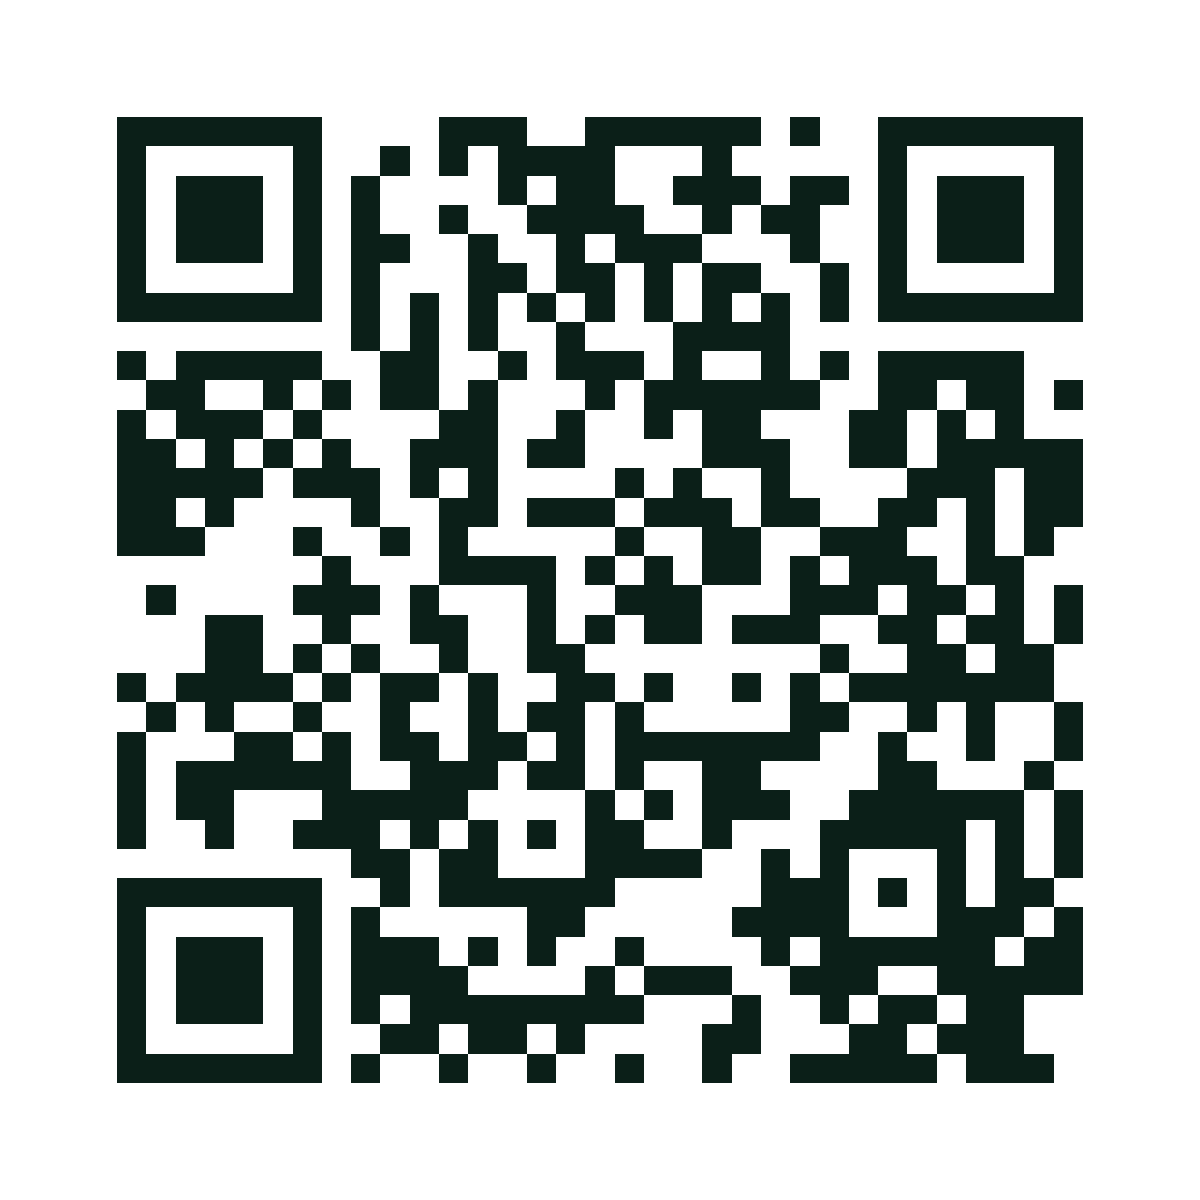
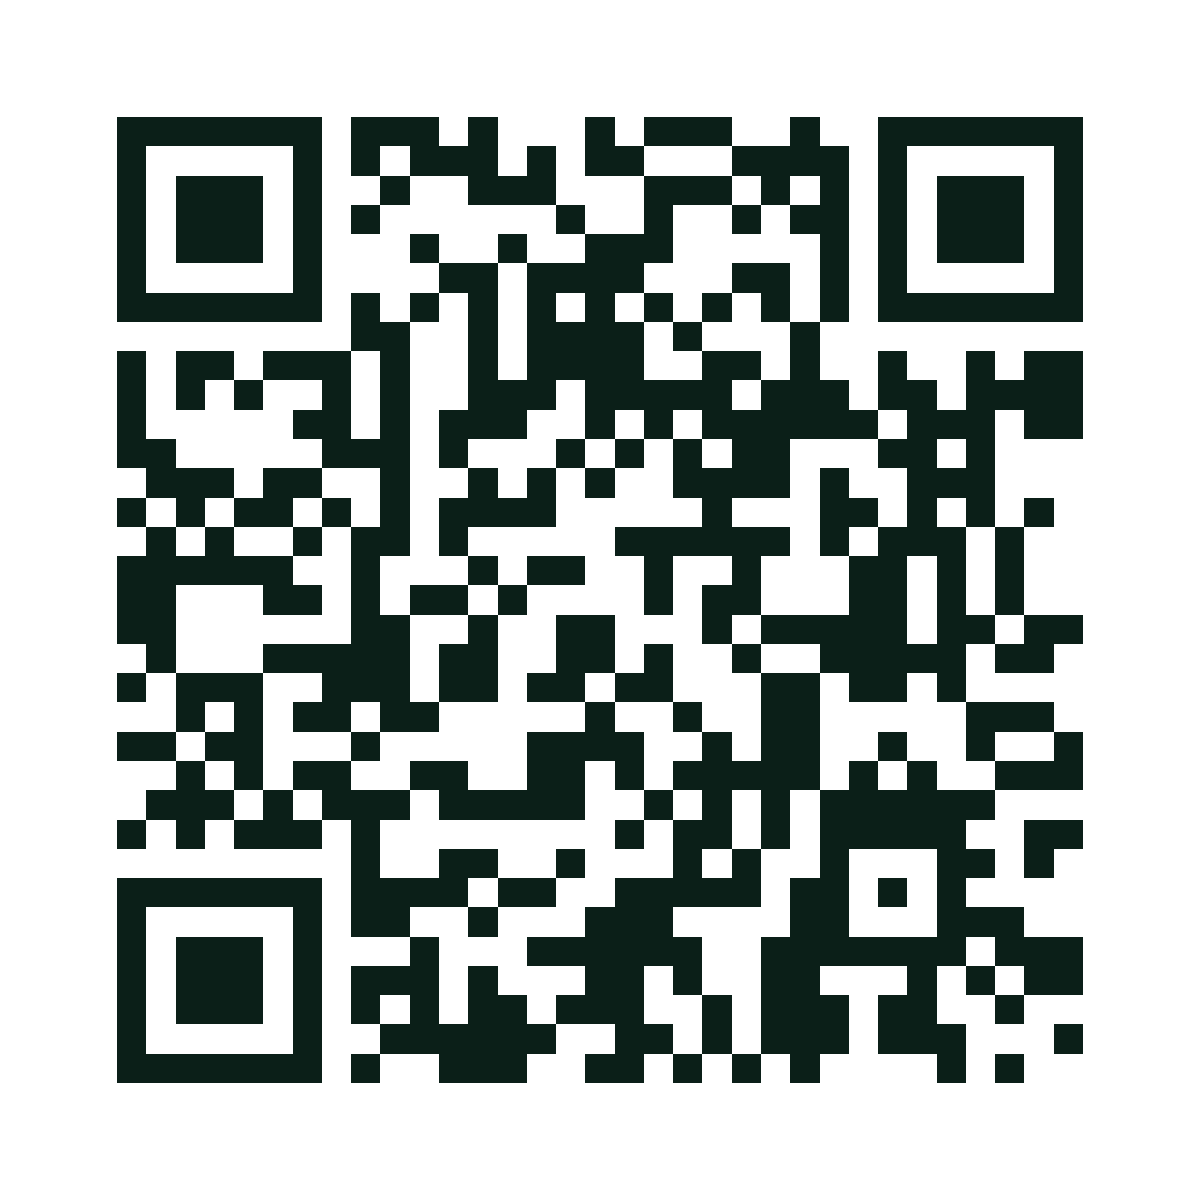
Aponta os QR Codes e o README para nexa-br.github.io
O site passou a ser publicado também pela organização nexa-br, para que o
endereço mostrado aos jurados destaque o nome do projeto. Os QR Codes e o
cartaz da pasta qr-code/ foram gerados de novo com o novo endereço, e o
cartaz deixa de mostrar a barra no fim do link.

Changed region(s): [[0.0925, 0.0925, 0.925, 0.925]]

diff --git a/README.md b/README.md
@@ -8,7 +8,7 @@ Este repositório contém um **protótipo funcional** criado para um hackathon. 
 
 ## Experimente em um minuto
 
-1. Abra o site publicado (ou rode localmente — veja [Como executar](#como-executar)).
+1. Abra o site publicado em <https://nexa-br.github.io> (ou rode localmente — veja [Como executar](#como-executar)).
 2. Toque em **Entrar** e escolha um perfil em **Acesso rápido**. Não precisa de cadastro nem de senha.
 
 | Perfil                                                            | O que mostra                                                        | E-mail                  | Link direto                 |
